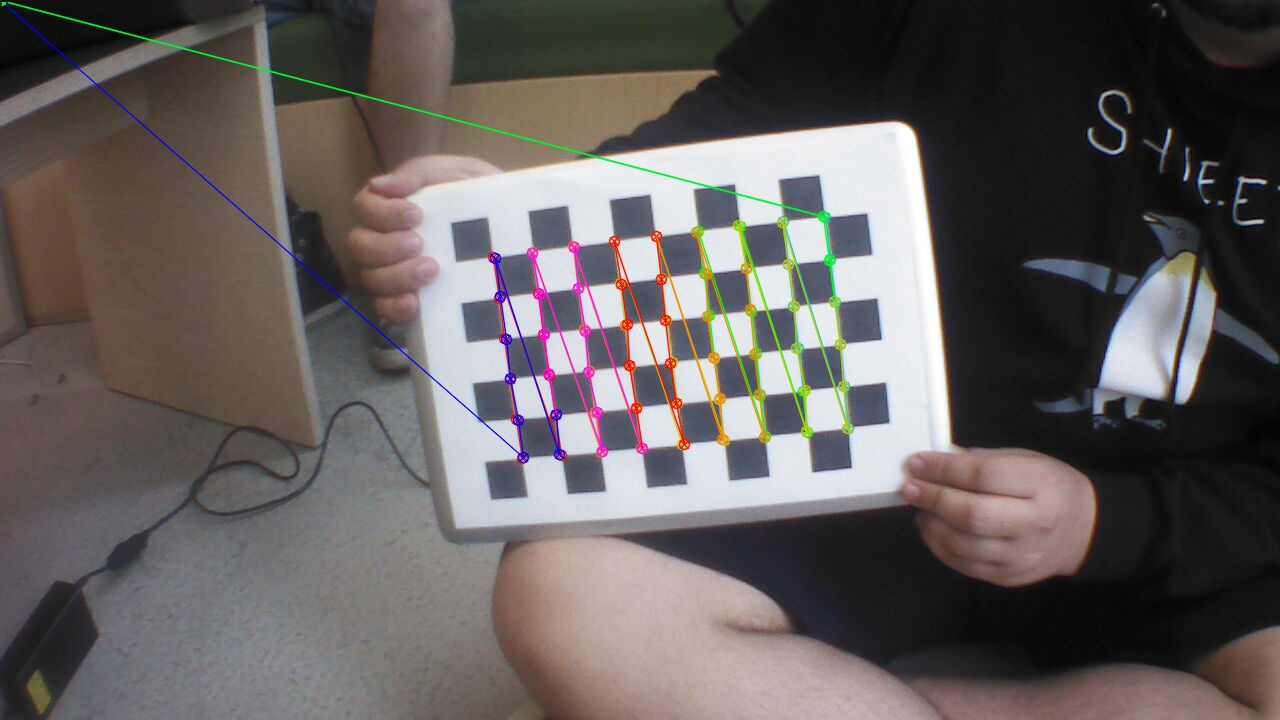
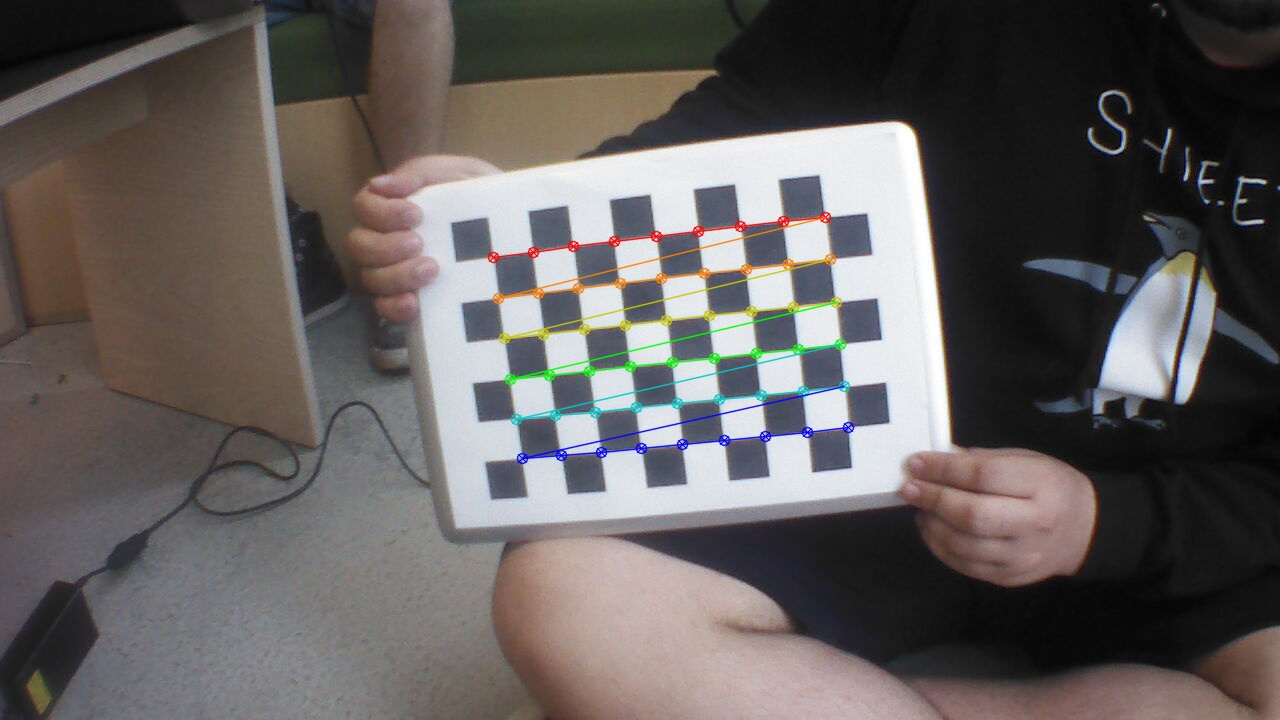
oprydning og cameracalibration

diff --git a/ARdrone13/src/dtu/grp13/drone/calibration/CameraCalibration.java b/ARdrone13/src/dtu/grp13/drone/calibration/CameraCalibration.java
@@ -23,34 +23,44 @@ public class CameraCalibration {
 	
 	public static void main(String[] args) {
 		System.loadLibrary( Core.NATIVE_LIBRARY_NAME );
-		int xsize = 6, ysize = 9;
+		MatOfPoint3f obj = new MatOfPoint3f();
+		MatOfPoint2f imageCorners = new MatOfPoint2f();
+		int numCornersHor = 9;
+		int numCornersVer  = 6;
+		int numSquares = numCornersHor * numCornersVer;
+		
 		Mat savedImage = new Mat();
 		
-		List<Mat> imagePoint = new ArrayList<Mat>(), rvecs = new ArrayList<Mat>(), tvecs = new ArrayList<Mat>();
-		for(int x = 0; x<xsize; x++) {
-			for(int y = 0; y<ysize; y++) {
-				MatOfPoint3f points = new MatOfPoint3f(new Point3(x,y,0));
-				imagePoint.add(points);
-			}
+		List<Mat> rvecs = new ArrayList<Mat>();
+		List<Mat> tvecs = new ArrayList<Mat>();
+		List<Mat> imagePoints = new ArrayList<>();
+		List<Mat> objectPoints = new ArrayList<>();
+		
+		
+		for(int j = 0; j < numSquares; j++) {
+			obj.push_back(new MatOfPoint3f(new Point3(j / numCornersHor, j % numCornersVer, 0.0f)));
+			objectPoints.add(obj);
 		}
 		
-		List<Mat> cornerList = new ArrayList<Mat>();
 		for( int i = 1 ; i<=12; i++) {
 			Mat image = Imgcodecs.imread("resources\\calibration\\cali"+i+".jpg");
-			Mat grayImg = new Mat();
-			Imgproc.cvtColor(image, grayImg, Imgproc.COLOR_BGRA2GRAY);
+			Mat grayImage = new Mat();
+			Imgproc.cvtColor(image, grayImage, Imgproc.COLOR_BGRA2GRAY);
 			
-			MatOfPoint2f corners = new MatOfPoint2f();
-			Size size = new Size(xsize, ysize);
-			boolean found = Calib3d.findChessboardCorners(image, size, corners);
+			Size boardsize = new Size(numCornersHor, numCornersVer );
+			boolean found = Calib3d.findChessboardCorners(grayImage, boardsize, imageCorners);
 			if(found) {
-		
-				grayImg.copyTo(savedImage);
-				Imgproc.cornerSubPix(grayImg, corners, new Size(11,11), new Size(-1,-1), new TermCriteria(TermCriteria.EPS|TermCriteria.MAX_ITER, 30, 0.1));
-				cornerList.add(corners);
+				
+				
+				TermCriteria term = new TermCriteria(TermCriteria.EPS | TermCriteria.MAX_ITER, 30, 0.1);
+				Imgproc.cornerSubPix(grayImage, imageCorners, new Size(11,11), new Size(-1,-1), term);
+				grayImage.copyTo(savedImage);
+				
+				imagePoints.add(imageCorners);
+				
 	
 			}
-			Calib3d.drawChessboardCorners(image, size, corners, found);
+			Calib3d.drawChessboardCorners(image, boardsize, imageCorners, found);
 			Imgcodecs.imwrite("resources\\checkboard\\drawnimg"+i+".jpg", image);
 			System.out.println(i + " done");
 		}
@@ -59,7 +69,7 @@ public class CameraCalibration {
 		Mat distCoeffs =  new Mat();
 		cameraMatrix.put(0, 0, 1);
 		cameraMatrix.put(1, 1, 1);
-		Calib3d.calibrateCamera(cornerList, imagePoint, savedImage.size(), cameraMatrix, distCoeffs, rvecs, tvecs);
+		Calib3d.calibrateCamera(objectPoints, imagePoints, savedImage.size(), cameraMatrix, distCoeffs, rvecs, tvecs);
 		Mat imgIn = Imgcodecs.imread("resources\\pic9.jpg");
 		
 		
